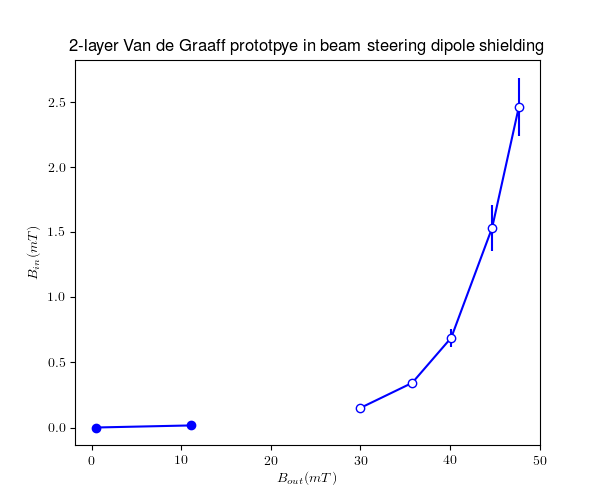
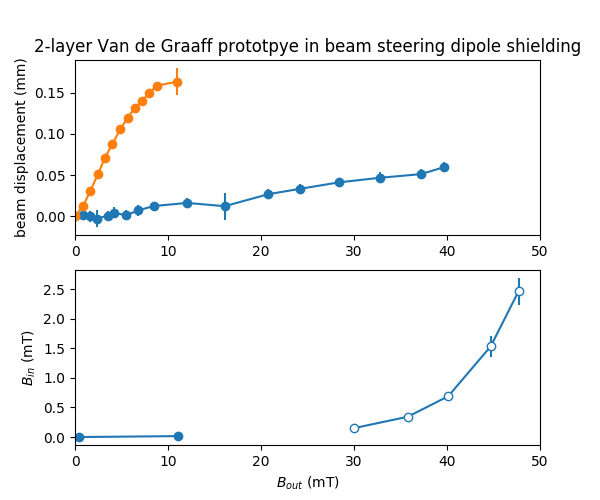
Add beam defplection to field leakage plot

diff --git a/pycloak/shielding_pub17/plot_shielding_vdg2layer.py b/pycloak/shielding_pub17/plot_shielding_vdg2layer.py
@@ -9,29 +9,55 @@ import pandas as pd
 
 import matplotlib.pyplot as plt
 
-#import load as ld
-#import applied_field as af
+#plt.style.use('ggplot')
 
+#from matplotlib import rc
+#rc('font',**{'family':'sans-serif','sans-serif':['Helvetica']})
+#rc('text', usetex=True)
 
-from matplotlib import rc
-rc('font',**{'family':'sans-serif','sans-serif':['Helvetica']})
-rc('text', usetex=True)
-
+# get data measured with Hall sensor
 data = pd.read_csv("results/shielding_vdg2layer.csv")
 
 # sort values
 data = data.sort_values('Bout',ascending=True)
 
-print(data)
+# get beam data
+data_beam = pd.read_csv("MagCloak-beam-spot-analysis-v12_c_results_short.csv")
 
-fig, axs = plt.subplots(1,1,figsize=(6,5))
+print(data_beam.head(5))
 
-axs.plot( data.loc[data['tdep']==False,'Bout'], data.loc[data['tdep']==False,'Bins'], color='b', marker='o')
-axs.errorbar( data.loc[data['tdep'],'Bout'], data.loc[data['tdep'],'Bins'], yerr=data.loc[data['tdep'],'Bins_sdev'].values, color='b', marker='o', mfc='white')
-axs.set_xlabel("$B_{out} (mT)$")
-axs.set_ylabel("$B_{in} (mT)$")
+data_beam_subset = data_beam.loc[ (data_beam['run'] == 1) &
+                                  (data_beam['temp'] == 'cryo') &
+                                  (data_beam['type'] == 'main') &
+                                  (data_beam['type2'] == 'distance') ]
 
-axs.set_title("2-layer Van de Graaff prototpye in beam steering dipole shielding")
+data_beam_subset2 = data_beam.loc[ (data_beam['run'] == 1) &
+                                   (data_beam['temp'] == 'room') &
+                                   (data_beam['type'] == 'main') &
+                                   (data_beam['type2'] == 'distance') ]
+
+## make test plot
+#plt.errorbar( data_beam_subset['Bnom'], data_beam_subset['x_mean'], yerr=data_beam_subset['x_sdev'].values, marker='o')
+#plt.errorbar( data_beam_subset2['Bnom'], data_beam_subset2['x_mean'], yerr=data_beam_subset2['x_sdev'].values, marker='o')
+#plt.xlabel("B (mT)")
+#plt.ylabel("displacement (mm)")
+#plt.show()
+
+# make plot
+fig, axs = plt.subplots(2,1,figsize=(6,5))
+
+axs[0].set_title("2-layer Van de Graaff prototpye in beam steering dipole shielding")
+axs[0].errorbar( data_beam_subset['Bnom'], data_beam_subset['x_mean'], yerr=data_beam_subset['x_sdev'].values, marker='o')
+axs[0].errorbar( data_beam_subset2['Bnom'], data_beam_subset2['x_mean'], yerr=data_beam_subset2['x_sdev'].values, marker='o')
+#axs[1].set_xlabel("$B_{out} (mT)$")
+axs[0].set_ylabel("beam displacement (mm)")
+axs[0].set_xlim((0,50))
+
+plt1=axs[1].plot( data.loc[data['tdep']==False,'Bout'], data.loc[data['tdep']==False,'Bins'], marker='o')
+axs[1].errorbar( data.loc[data['tdep'],'Bout'], data.loc[data['tdep'],'Bins'], yerr=data.loc[data['tdep'],'Bins_sdev'].values, marker='o', color=plt1[0].get_color(), mfc='white')
+axs[1].set_xlabel("$B_{out}$ (mT)")
+axs[1].set_ylabel("$B_{in}$ (mT)")
+axs[1].set_xlim((0,50))
 
 plt.savefig("plots/shielding_vdg2layer.png")
 plt.show()
